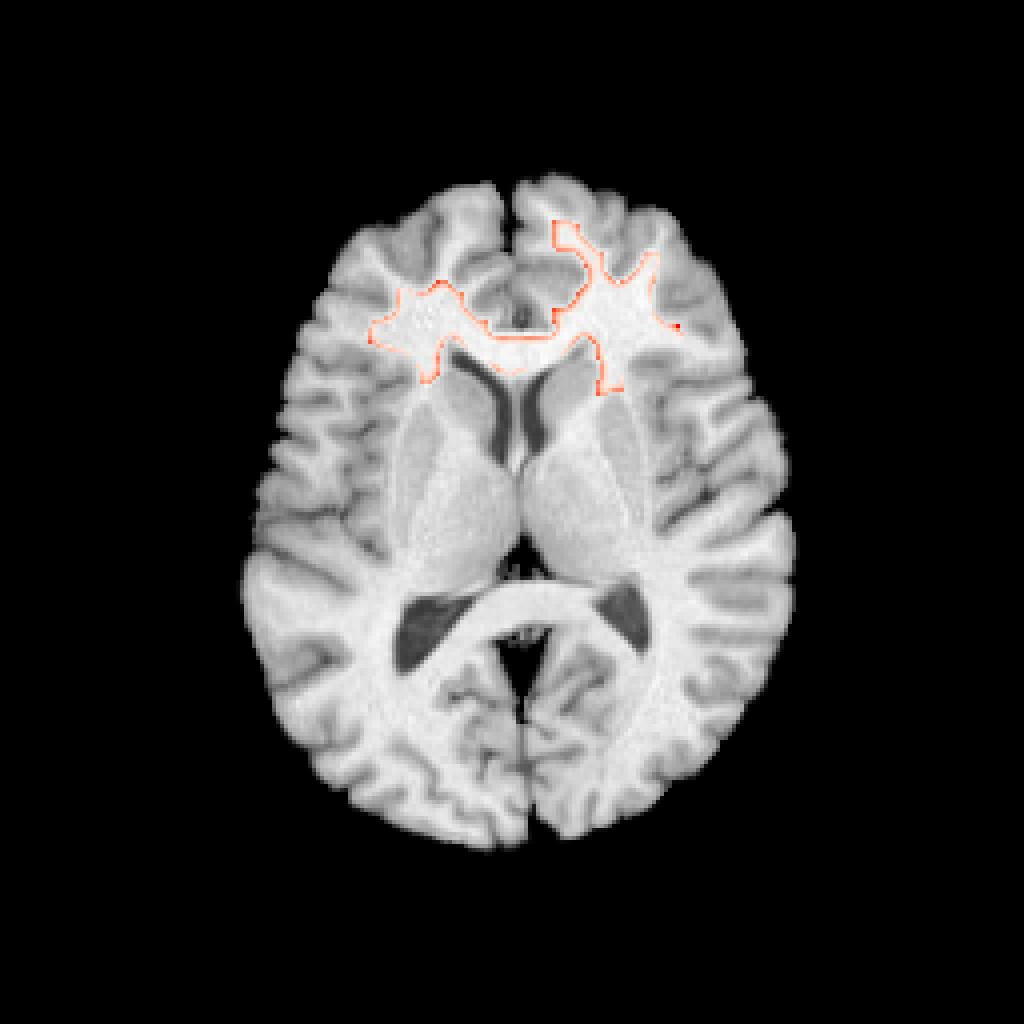
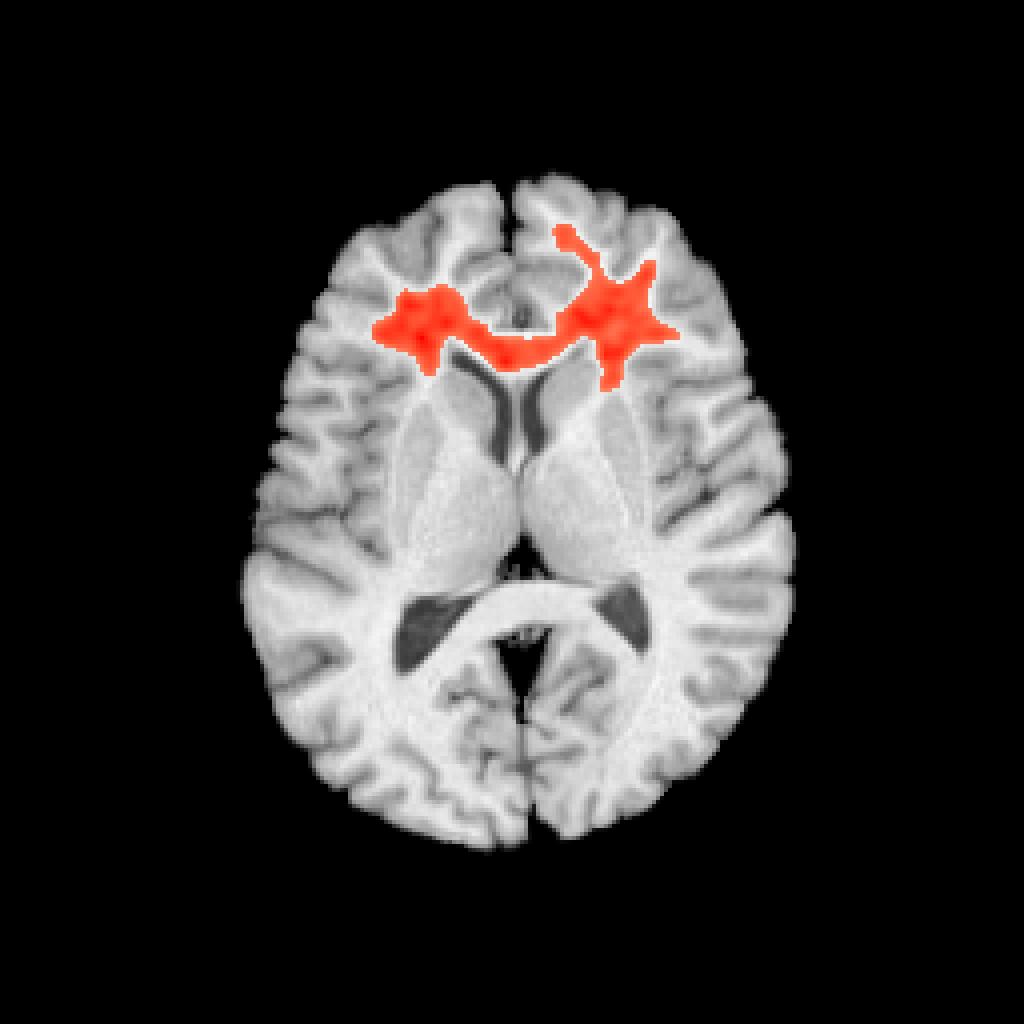
ENH: ANTsR example

Changed region(s): [[0.3438, 0.2188, 0.6875, 0.4062]]

diff --git a/index.html b/index.html
@@ -399,9 +399,11 @@ filename&lt;-<span class="kw">getANTsRData</span>(<span class="st">&#39;r16&#39;
 img&lt;-<span class="kw">antsImageRead</span>( filename , dim )
 filename&lt;-<span class="kw">getANTsRData</span>(<span class="st">&#39;r64&#39;</span>)
 img2&lt;-<span class="kw">antsImageRead</span>( filename , dim )
-mask&lt;-<span class="kw">getMask</span>(img,<span class="dv">150</span>,<span class="dv">255</span>,T)
-nvox&lt;-<span class="kw">sum</span>( mask ==<span class="st"> </span><span class="dv">1</span> )</code></pre>
-<p>The brain has 1180 voxels …</p>
+mask&lt;-<span class="kw">getMask</span>(img,<span class="dv">50</span>,<span class="kw">max</span>(img),T)
+mask2&lt;-<span class="kw">getMask</span>(img,<span class="dv">150</span>,<span class="kw">max</span>(img),T)
+nvox&lt;-<span class="kw">sum</span>( mask ==<span class="st"> </span><span class="dv">1</span> )
+nvox2&lt;-<span class="kw">sum</span>( mask2 ==<span class="st"> </span><span class="dv">1</span> )</code></pre>
+<p>The brain has 17395 voxels …</p>
 </section><section id="a-quick-antsr-example-1" class="slide level2">
 <h1>A Quick <span style="color:grey;"><em>ANTsR</em></span> example</h1>
 <p>Simulate a population morphometry study - a “VBM” …</p>
@@ -410,11 +412,10 @@ imglist&lt;-<span class="kw">list</span>()
 imglist2&lt;-<span class="kw">list</span>()
 for ( i in <span class="dv">1</span>:simnum ) {
   img1sim&lt;-<span class="kw">antsImageClone</span>(img)
-  img1sim[ mask==<span class="dv">1</span> ]&lt;-<span class="kw">rnorm</span>(nvox,<span class="dt">mean=</span><span class="fl">0.205</span>)
-  <span class="kw">SmoothImage</span>(dim,img1sim,<span class="fl">1.5</span>,img1sim)
+  img1sim[ mask==<span class="dv">1</span> ]&lt;-<span class="kw">rnorm</span>(nvox,<span class="dt">mean=</span><span class="fl">0.5</span>)
+  img1sim[ mask2==<span class="dv">1</span> ]&lt;-<span class="kw">rnorm</span>(nvox2,<span class="dt">mean=</span><span class="fl">2.0</span>)
   img2sim&lt;-<span class="kw">antsImageClone</span>(img2)
   img2sim[ mask==<span class="dv">1</span> ]&lt;-<span class="kw">rnorm</span>(nvox,<span class="dt">mean=</span><span class="fl">0.20</span>)
-  <span class="kw">SmoothImage</span>(dim,img2sim,<span class="fl">1.5</span>,img2sim)
   imglist&lt;-<span class="kw">lappend</span>(imglist,img1sim)
   imglist2&lt;-<span class="kw">lappend</span>(imglist2,img2sim)
 }
@@ -423,10 +424,10 @@ mat&lt;-<span class="kw">imageListToMatrix</span>( imglist, mask )
 DX&lt;-<span class="kw">factor</span>( <span class="kw">c</span>( <span class="kw">rep</span>(<span class="dv">0</span>,simnum), <span class="kw">rep</span>(<span class="dv">1</span>,simnum) ) )
 mylmresults&lt;-<span class="kw">bigLMStats</span>( <span class="kw">lm</span>( mat ~<span class="st"> </span>DX ) )
 qvals&lt;-<span class="kw">p.adjust</span>( mylmresults$pval.model ) </code></pre>
-<p>The minimum q-value is 5.0847 × 10<sup>-40</sup> …</p>
+<p>The minimum q-value is 3.4117 × 10<sup>-4</sup> …</p>
 </section><section id="visualize-the-histograms-of-effects" class="slide level2">
 <h1>Visualize the histograms of effects</h1>
-<pre class="sourceCode r"><code class="sourceCode r">whichvox&lt;-qvals &lt;<span class="st"> </span><span class="fl">1.e-8</span>
+<pre class="sourceCode r"><code class="sourceCode r">whichvox&lt;-qvals &lt;<span class="st"> </span><span class="fl">1.e-2</span>
 voxdf&lt;-<span class="kw">data.frame</span>( <span class="dt">volume=</span><span class="kw">c</span>( <span class="kw">as.numeric</span>( mat[,whichvox] ) ), <span class="dt">DX=</span>DX )
 <span class="kw">ggplot</span>(voxdf, <span class="kw">aes</span>(volume, <span class="dt">fill =</span> DX)) +<span class="st"> </span><span class="kw">geom_density</span>(<span class="dt">alpha =</span> <span class="fl">0.2</span>)</code></pre>
 <p><img src="FigsAntsHistory/vizmorph.png" title="plot of chunk vizmorph" alt="plot of chunk vizmorph" width="864" /></p>
@@ -435,7 +436,15 @@ voxdf&lt;-<span class="kw">data.frame</span>( <span class="dt">volume=</span><sp
 <pre class="sourceCode r"><code class="sourceCode r"><span class="kw">plotANTsImage</span>(img,<span class="dt">functional=</span><span class="kw">list</span>(betas),<span class="dt">threshold=</span>thresh,
   <span class="dt">outname=</span>ofn)</code></pre>
 <p><img src="FigsAntsHistory/vizmorph2.jpg" /></p>
+</section><section id="network-visualization" class="slide level2">
+<h1>Network visualization</h1>
+<p>see <code>?plotBasicNetwork</code></p>
+<p><img src="FigsAntsHistory/network.png" /></p>
 </section><section id="the-power-of-ants-r-rightarrow-reproducible-imaging-science" class="slide level2">
+<h1>The power of <em>ANTs</em> <span class="math">\(+\)</span> <em>R</em> <span class="math">\(\rightarrow\)</span><br /> <span style="color:red;"><strong>Reproducible imaging science</strong></span></h1>
+<p><img src="figures/antsgoals.png" /></p>
+<p>… used in <a href="http://www.ncbi.nlm.nih.gov/pubmed/24096125">“Sparse canonical correlation analysis relates network-level atrophy to multivariate cognitive measures in a neurodegenerative population”</a> and several upcoming …</p>
+</section><section id="the-power-of-ants-r-rightarrow-reproducible-imaging-science-1" class="slide level2">
 <h1>The power of <em>ANTs</em> <span class="math">\(+\)</span> <em>R</em> <span class="math">\(\rightarrow\)</span><br /> <span style="color:red;"><strong>Reproducible imaging science</strong></span></h1>
 <p><img src="figures/antsgoals.png" /></p>
 <p>… used in <a href="http://www.ncbi.nlm.nih.gov/pubmed/24096125">“Sparse canonical correlation analysis relates network-level atrophy to multivariate cognitive measures in a neurodegenerative population”</a> and several upcoming …</p>
